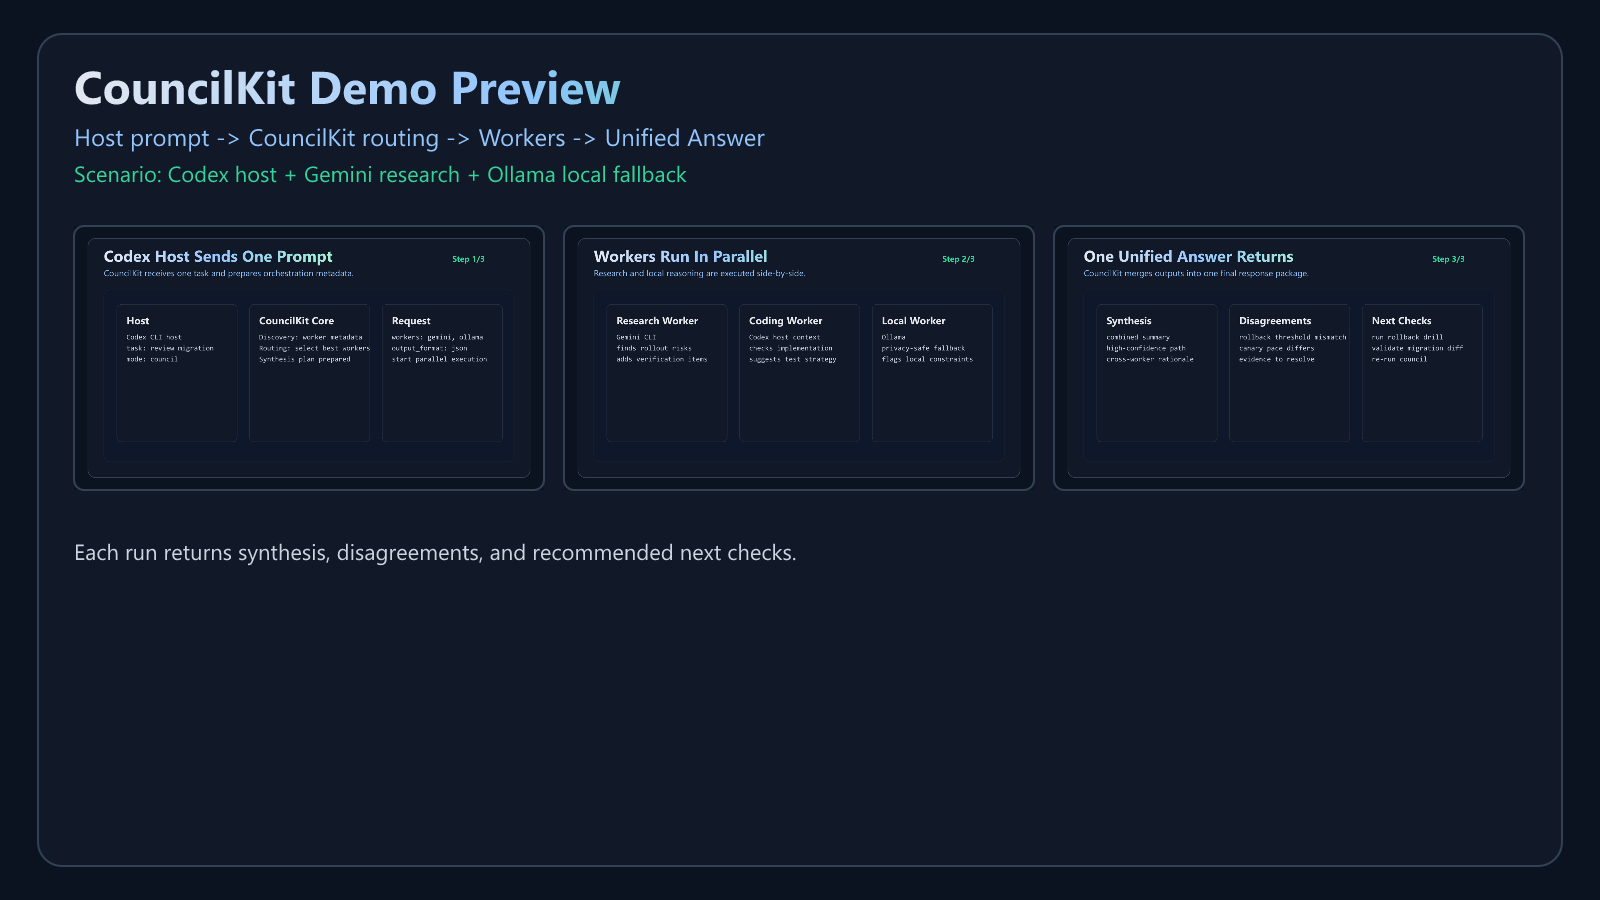
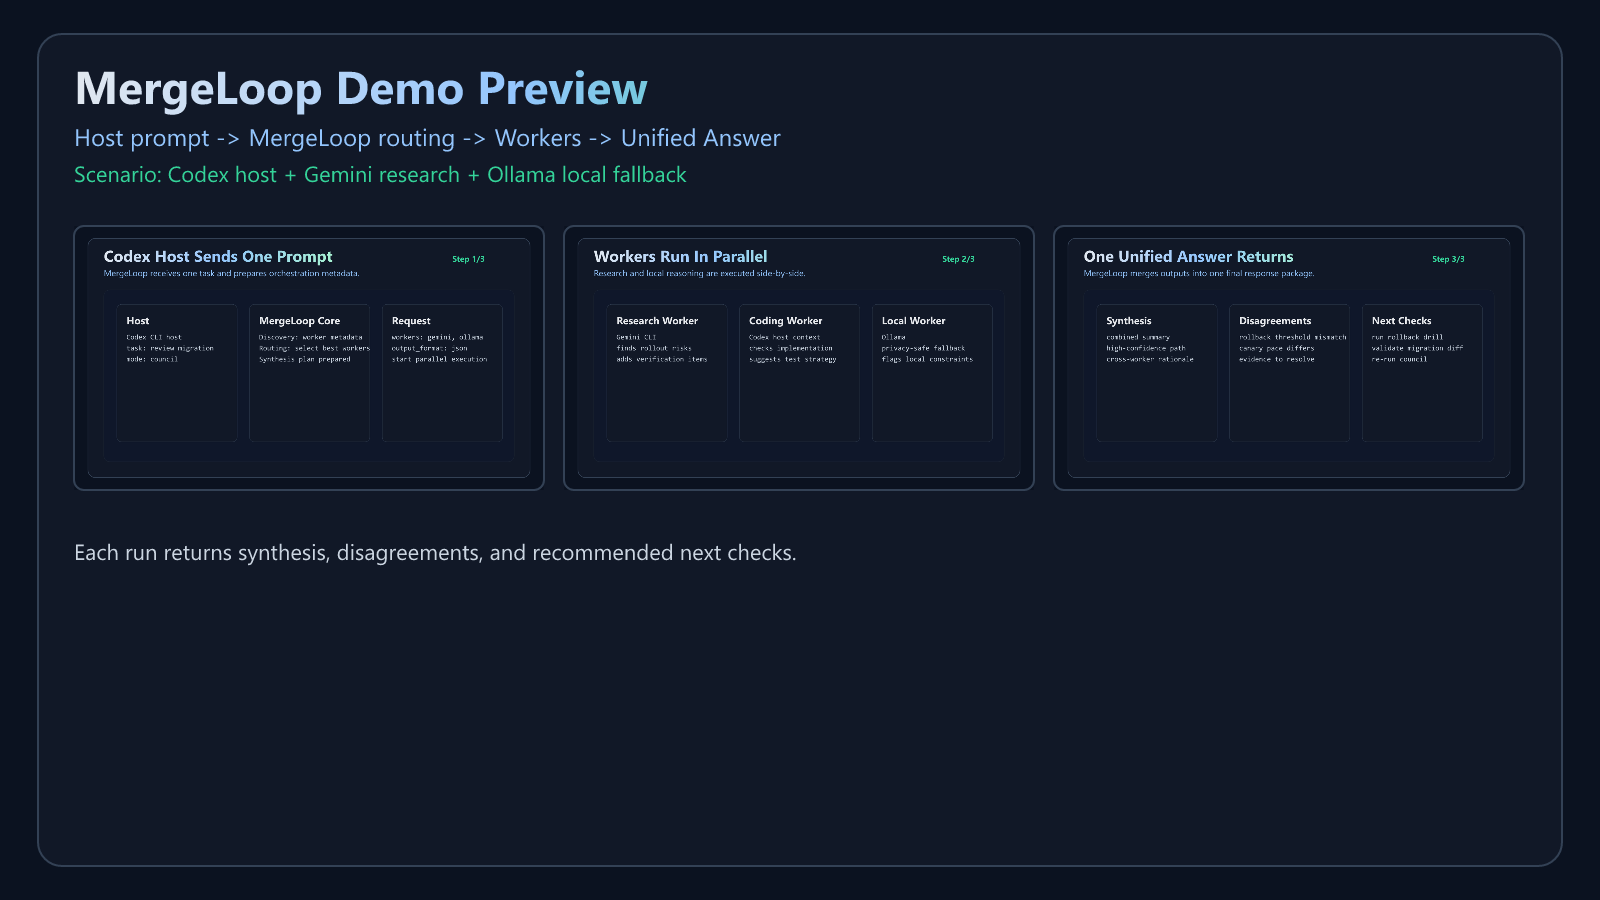
chore: complete MergeLoop rename and remove stale CouncilKit references

diff --git a/test/config-migration.test.ts b/test/config-migration.test.ts
@@ -6,10 +6,10 @@ import test from "node:test";
 
 import { loadSettings } from "../src/core/config.js";
 
-async function createFixture(config: unknown): Promise<string> {
+async function createFixture(config: unknown, fileName = "mergeloop.settings.json"): Promise<string> {
   const directory = await fs.mkdtemp(path.join(os.tmpdir(), "mergeloop-config-test-"));
   await fs.writeFile(
-    path.join(directory, "mergeloop.settings.json"),
+    path.join(directory, fileName),
     `${JSON.stringify(config, null, 2)}\n`,
     "utf8"
   );
@@ -80,4 +80,57 @@ test("worker command/timeouts override legacy runtime fields for built-ins", asy
   assert.equal(settings.timeouts.gemini_ms, 124000);
   assert.equal(settings.timeouts.local_ms, 125000);
   assert.equal(settings.timeouts.ollama_ms, 126000);
+});
+
+test("loads legacy councilkit.settings.json as a fallback alias", async () => {
+  const cwd = await createFixture(
+    {
+      active_host: "generic_mcp_host",
+      persistence: {
+        enabled: true,
+        directory: "~/.mergeloop/runs"
+      }
+    },
+    "councilkit.settings.json"
+  );
+
+  const loaded = await loadSettings(cwd);
+  assert.equal(path.basename(loaded.configPath ?? ""), "councilkit.settings.json");
+  assert.equal(loaded.settings.active_host, "generic_mcp_host");
+});
+
+test("loads legacy COUNCILKIT_CONFIG env var as a fallback alias", async () => {
+  const cwd = await fs.mkdtemp(path.join(os.tmpdir(), "mergeloop-config-env-test-"));
+  const legacyPath = path.join(cwd, "legacy-config.json");
+  await fs.writeFile(
+    legacyPath,
+    `${JSON.stringify(
+      {
+        active_host: "gemini_cli",
+        persistence: {
+          enabled: true,
+          directory: "~/.mergeloop/runs"
+        }
+      },
+      null,
+      2
+    )}\n`,
+    "utf8"
+  );
+
+  const previous = process.env.COUNCILKIT_CONFIG;
+  delete process.env.MERGELOOP_CONFIG;
+  process.env.COUNCILKIT_CONFIG = legacyPath;
+
+  try {
+    const loaded = await loadSettings(cwd);
+    assert.equal(loaded.configPath, legacyPath);
+    assert.equal(loaded.settings.active_host, "gemini_cli");
+  } finally {
+    if (previous === undefined) {
+      delete process.env.COUNCILKIT_CONFIG;
+    } else {
+      process.env.COUNCILKIT_CONFIG = previous;
+    }
+  }
 });

diff --git a/test/host-config-merge.test.ts b/test/host-config-merge.test.ts
@@ -5,6 +5,7 @@ import path from "node:path";
 import test from "node:test";
 
 import {
+  LEGACY_MERGELOOP_SERVER_NAMES,
   mergeMcpServerEntry,
   removeMcpServerEntry,
   upsertMcpServerConfig,
@@ -54,6 +55,36 @@ test("mergeMcpServerEntry avoids duplicate write for equivalent entry", () => {
 
   assert.equal(result.changed, false);
   assert.equal(result.duplicated, true);
+});
+
+test("mergeMcpServerEntry migrates legacy CouncilKit server ids to mergeloop", () => {
+  const source = {
+    mcpServers: {
+      councilkit: {
+        command: "node",
+        args: ["dist/server.js"]
+      },
+      "council-hub": {
+        command: "node",
+        args: ["dist/server.js"]
+      }
+    }
+  };
+
+  const result = mergeMcpServerEntry(
+    source,
+    "mergeloop",
+    {
+      command: "node",
+      args: ["dist/server.js"]
+    },
+    LEGACY_MERGELOOP_SERVER_NAMES
+  );
+
+  assert.equal(result.changed, true);
+  assert.ok(result.merged.mcpServers.mergeloop);
+  assert.equal(result.merged.mcpServers.councilkit, undefined);
+  assert.equal(result.merged.mcpServers["council-hub"], undefined);
 });
 
 test("upsertMcpServerConfig creates a backup when existing config changes", async () => {
@@ -153,6 +184,31 @@ test("removeMcpServerEntry removes only target server and preserves others", () 
   const result = removeMcpServerEntry(source, "mergeloop");
   assert.equal(result.changed, true);
   assert.equal(result.merged.mcpServers.mergeloop, undefined);
+  assert.ok(result.merged.mcpServers.cloudrun);
+});
+
+test("removeMcpServerEntry removes legacy CouncilKit server ids too", () => {
+  const source = {
+    mcpServers: {
+      councilkit: {
+        command: "node",
+        args: ["dist/server.js"]
+      },
+      "council-hub": {
+        command: "node",
+        args: ["dist/server.js"]
+      },
+      cloudrun: {
+        command: "npx",
+        args: ["-y", "@google-cloud/cloud-run-mcp"]
+      }
+    }
+  };
+
+  const result = removeMcpServerEntry(source, "mergeloop", LEGACY_MERGELOOP_SERVER_NAMES);
+  assert.equal(result.changed, true);
+  assert.equal(result.merged.mcpServers.councilkit, undefined);
+  assert.equal(result.merged.mcpServers["council-hub"], undefined);
   assert.ok(result.merged.mcpServers.cloudrun);
 });
 

diff --git a/src/core/config.ts b/src/core/config.ts
@@ -4,6 +4,12 @@ import path from "node:path";
 import type { MergeLoopSettings, LoadedSettings, WorkerDefinition } from "../types/council.js";
 import { normalizePath } from "./path-utils.js";
 
+const LEGACY_ENV_KEYS = ["COUNCILKIT_CONFIG"] as const;
+const LEGACY_CONFIG_PATHS = [
+  "councilkit.settings.json",
+  "~/.councilkit/config.json"
+] as const;
+
 const DEFAULT_SETTINGS: MergeLoopSettings = {
   active_host: "generic_mcp_host",
   hosts: {
@@ -300,10 +306,17 @@ function normalizeRuntimeSettings(settings: MergeLoopSettings): MergeLoopSetting
 }
 
 export async function loadSettings(cwd = process.cwd()): Promise<LoadedSettings> {
-  const candidatePaths = [
+  const envCandidates = [
     process.env.MERGELOOP_CONFIG,
+    ...LEGACY_ENV_KEYS.map((key) => process.env[key])
+  ].filter((value): value is string => Boolean(value));
+
+  const candidatePaths = [
+    ...envCandidates,
     path.join(cwd, "mergeloop.settings.json"),
-    normalizePath("~/.mergeloop/config.json")
+    path.join(cwd, LEGACY_CONFIG_PATHS[0]),
+    normalizePath("~/.mergeloop/config.json"),
+    normalizePath(LEGACY_CONFIG_PATHS[1])
   ].filter((value): value is string => Boolean(value));
 
   for (const candidate of candidatePaths) {

diff --git a/dist/core/config.js b/dist/core/config.js
@@ -1,6 +1,11 @@
 import fs from "node:fs/promises";
 import path from "node:path";
 import { normalizePath } from "./path-utils.js";
+const LEGACY_ENV_KEYS = ["COUNCILKIT_CONFIG"];
+const LEGACY_CONFIG_PATHS = [
+    "councilkit.settings.json",
+    "~/.councilkit/config.json"
+];
 const DEFAULT_SETTINGS = {
     active_host: "generic_mcp_host",
     hosts: {
@@ -263,10 +268,16 @@ function normalizeRuntimeSettings(settings) {
     return normalized;
 }
 export async function loadSettings(cwd = process.cwd()) {
-    const candidatePaths = [
+    const envCandidates = [
         process.env.MERGELOOP_CONFIG,
+        ...LEGACY_ENV_KEYS.map((key) => process.env[key])
+    ].filter((value) => Boolean(value));
+    const candidatePaths = [
+        ...envCandidates,
         path.join(cwd, "mergeloop.settings.json"),
-        normalizePath("~/.mergeloop/config.json")
+        path.join(cwd, LEGACY_CONFIG_PATHS[0]),
+        normalizePath("~/.mergeloop/config.json"),
+        normalizePath(LEGACY_CONFIG_PATHS[1])
     ].filter((value) => Boolean(value));
     for (const candidate of candidatePaths) {
         try {

diff --git a/README.md b/README.md
@@ -62,6 +62,18 @@ Docs:
 - [docs/host-autoconfig.md](./docs/host-autoconfig.md)
 - [docs/rollback.md](./docs/rollback.md)
 
+## Migration From CouncilKit
+
+MergeLoop is the new name for CouncilKit.
+
+- new installs should use `mergeloop.settings.json`, `MERGELOOP_CONFIG`, `~/.mergeloop/config.json`, and the MCP server id `mergeloop`
+- legacy aliases are still recognized for migration:
+  - `councilkit.settings.json`
+  - `COUNCILKIT_CONFIG`
+  - `~/.councilkit/config.json`
+  - legacy MCP ids such as `councilkit` and `council-hub`
+- rerunning `npm run setup` will write the new MergeLoop naming and replace legacy MCP ids in supported host config files
+
 ## Why This Exists
 
 Most teams already pay for multiple model subscriptions and run local tools, but still operate them one-at-a-time.

diff --git a/docs/host-autoconfig.md b/docs/host-autoconfig.md
@@ -23,8 +23,9 @@ When auto-configuring a host JSON file, setup:
 1. reads existing JSON config
 2. preserves unrelated entries
 3. upserts `mcpServers.mergeloop` with `node .../dist/server.js`
-4. avoids duplicate MergeLoop entry if equivalent entry already exists
-5. creates timestamped backup before any file rewrite
+4. replaces legacy CouncilKit ids such as `councilkit` and `council-hub` when present
+5. avoids duplicate MergeLoop entry if equivalent entry already exists
+6. creates timestamped backup before any file rewrite
 
 ## Claims and Limits
 

diff --git a/docs/setup.md b/docs/setup.md
@@ -18,12 +18,14 @@ npm run setup
 ## What Setup Configures
 
 - merges/writes `mergeloop.settings.json`
+- migrates from legacy `councilkit.settings.json` if that file is present locally
 - lets you select:
   - host target
   - workers
   - routing style
   - persistence directory
 - optionally auto-merges `mergeloop` MCP entry into selected host config
+- replaces legacy CouncilKit MCP ids in supported host config files when present
 - creates timestamped backups before modifying existing files
 
 ## Safe Modes

diff --git a/docs/rollback.md b/docs/rollback.md
@@ -45,4 +45,5 @@ If you want full rollback, replace modified file with backup:
 ## Notes
 
 - Rollback only touches config files that setup/uninstall modified.
+- Uninstall also removes legacy CouncilKit MCP ids such as `councilkit` and `council-hub` from supported host config files.
 - Worker CLI install/auth state is separate from config rollback.

diff --git a/docs/configuration.md b/docs/configuration.md
@@ -6,6 +6,12 @@ MergeLoop loads settings from:
 2. `./mergeloop.settings.json`
 3. `~/.mergeloop/config.json`
 
+Legacy aliases are still recognized during migration:
+
+- `COUNCILKIT_CONFIG`
+- `./councilkit.settings.json`
+- `~/.councilkit/config.json`
+
 ## Core Schema
 
 ```json
